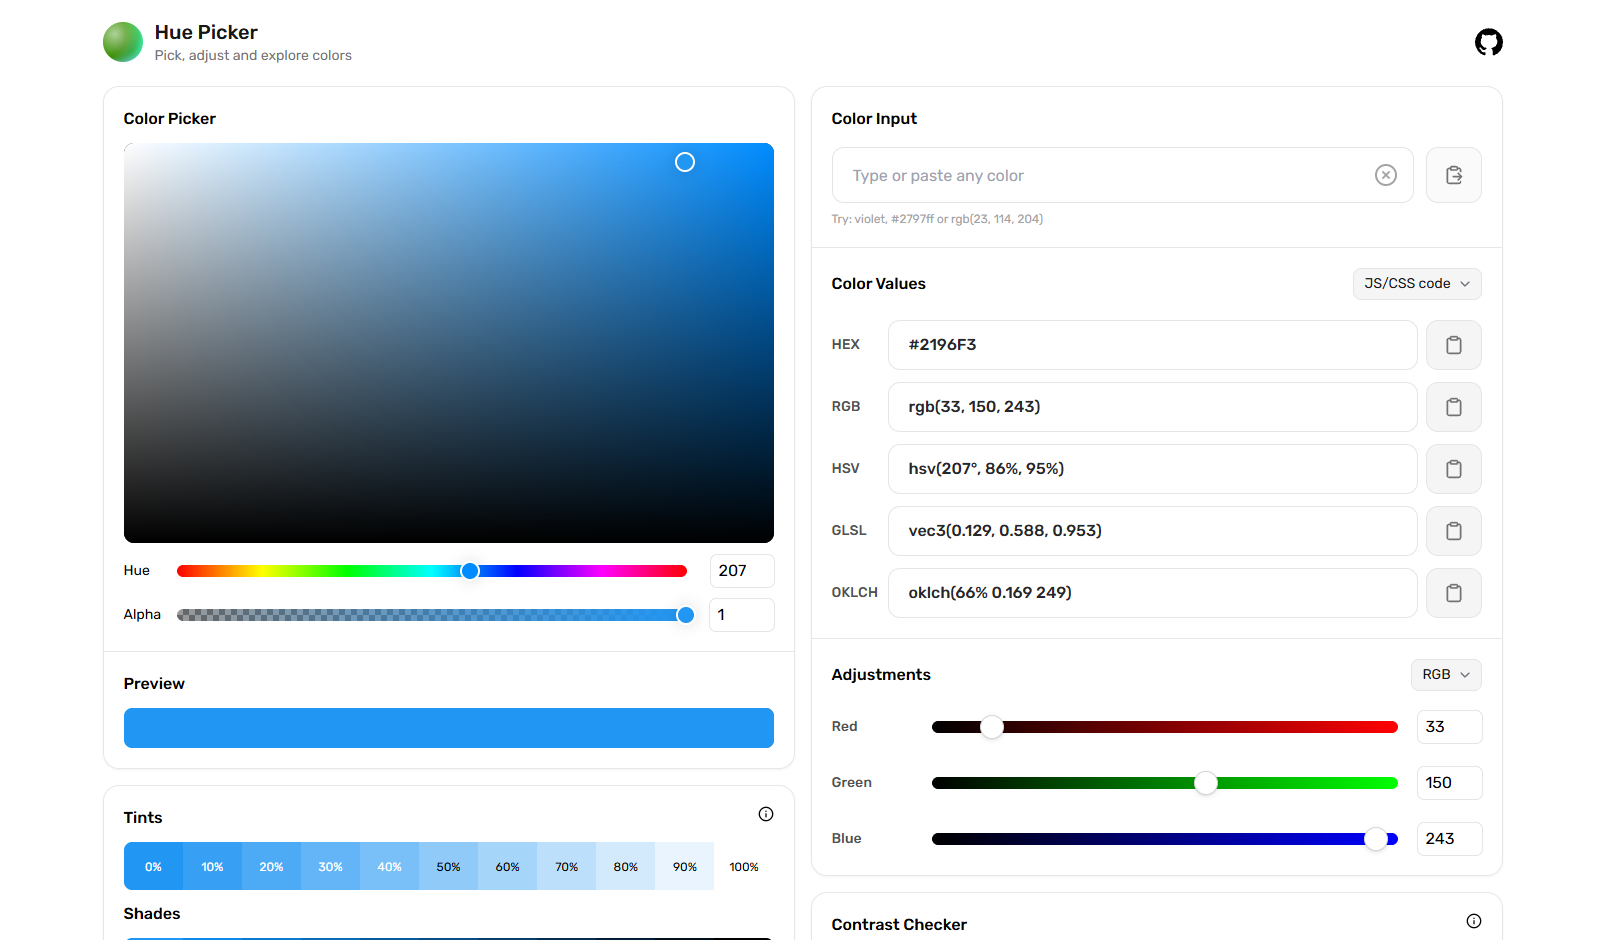
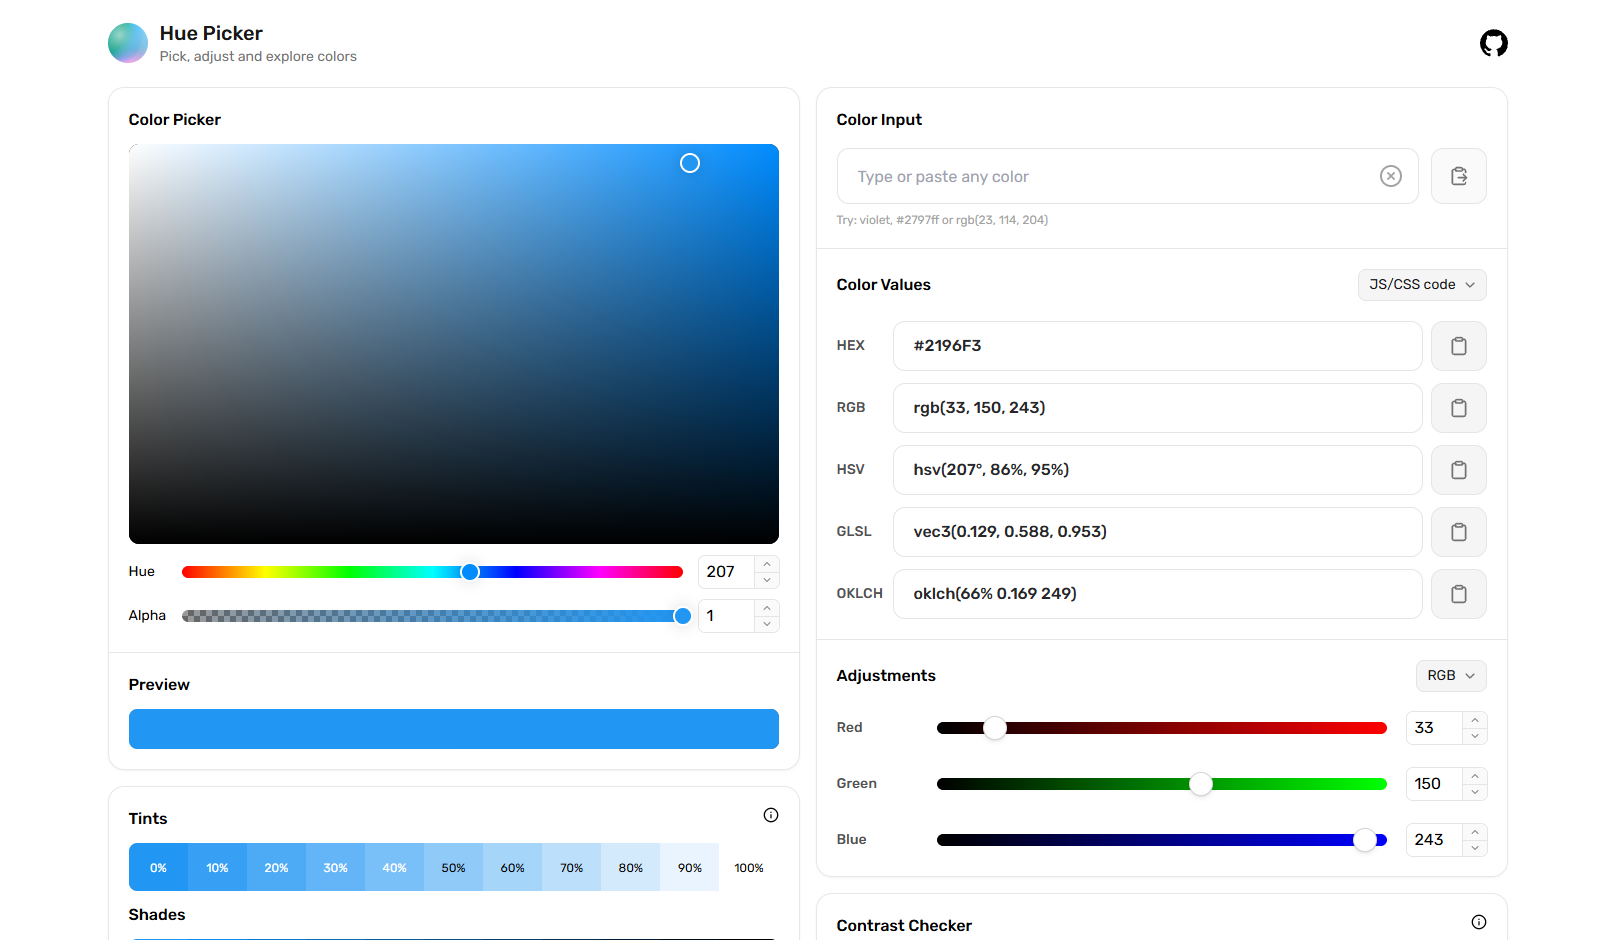
number input field added

diff --git a/src/components/utils/NumberInput.tsx b/src/components/utils/NumberInput.tsx
@@ -1,0 +1,65 @@
+import { NumberField } from "@base-ui/react/number-field";
+
+export function NumberInput({
+  min,
+  max,
+  step,
+  value,
+  onChange,
+}: {
+  min: number;
+  max: number;
+  step: number;
+  value: string;
+  onChange: (value: string) => void;
+}) {
+  return (
+    <NumberField.Root
+      value={Number(value)}
+      onValueChange={(value) => onChange(value?.toString() as string)}
+      min={min}
+      max={max}
+      step={step}
+    >
+      <NumberField.Group className="flex w-20 ring-1 ring-neutral-200 rounded-md overflow-hidden focus-within:ring-2 focus-within:ring-neutral-900 bg-white">
+        <NumberField.Input
+          onClick={(e) => e.currentTarget.select()}
+          className="w-full px-2 py-1 outline-none min-w-0"
+        />
+
+        {/* The Right-Side Controls Container */}
+        <div className="flex flex-col border-l border-neutral-200 bg-neutral-50 shrink-0">
+          <NumberField.Increment className="flex-1 flex items-center justify-center px-1.5 hover:bg-neutral-200 border-b border-neutral-200 cursor-default text-neutral-600">
+            <svg
+              width="12"
+              height="12"
+              viewBox="0 0 24 24"
+              fill="none"
+              stroke="currentColor"
+              strokeWidth="2"
+              strokeLinecap="round"
+              strokeLinejoin="round"
+            >
+              <path d="m18 15-6-6-6 6" />
+            </svg>
+          </NumberField.Increment>
+
+          <NumberField.Decrement className="flex-1 flex items-center justify-center px-1.5 hover:bg-neutral-200 cursor-default text-neutral-600">
+            <svg
+              width="12"
+              height="12"
+              viewBox="0 0 24 24"
+              fill="none"
+              stroke="currentColor"
+              strokeWidth="2"
+              strokeLinecap="round"
+              strokeLinejoin="round"
+            >
+              <path d="m6 9 6 6 6-6" />
+            </svg>
+          </NumberField.Decrement>
+        </div>
+      </NumberField.Group>
+    </NumberField.Root>
+  );
+}

diff --git a/src/components/layout/ColorPickerCard.tsx b/src/components/layout/ColorPickerCard.tsx
@@ -1,9 +1,10 @@
-import React, { useContext } from "react";
-import { ColorPicker, Hue, Alpha } from "react-color-palette";
+import { useContext } from "react";
+import { Alpha, ColorPicker, Hue } from "react-color-palette";
 import "react-color-palette/css";
 import { HUE_MAX, MIN, PCT_MAX } from "../../utils/const";
 import { ColorContext } from "../lib/ColorContext";
 import { ColorUtils } from "../lib/ColorUtils";
+import { NumberInput } from "../utils/NumberInput";
 
 export default function ColorPickerCard() {
   const { color, setColor } = useContext(ColorContext);
@@ -56,15 +57,12 @@ export default function ColorPickerCard() {
               setColor(ColorUtils.convert("hsv", color.hsv));
             }}
           />
-          <input
-            type="number"
+          <NumberInput
             min={MIN}
             max={HUE_MAX}
             step={1}
             value={Math.round(color.hsv.h).toFixed(0)}
-            onChange={(e) => handleInputChange("h", e.target.value)}
-            onClick={(e: any) => e.target.select()}
-            className="w-16 ml-2 ring-1 ring-neutral-200 rounded-md px-2 py-1 select-all"
+            onChange={(e: string) => handleInputChange("h", e)}
           />
         </div>
 
@@ -76,15 +74,13 @@ export default function ColorPickerCard() {
               setColor(ColorUtils.convert("hsv", color.hsv));
             }}
           />
-          <input
-            type="number"
+
+          <NumberInput
             min={MIN}
             max={1}
             step={0.001}
             value={`${color.hsv.a === 0 || color.hsv.a === 1 ? color.hsv.a : color.hsv.a.toFixed(2)}`}
-            onChange={(e) => handleInputChange("a", e.target.value)}
-            onClick={(e: any) => e.target.select()}
-            className="w-16 ml-2 ring-1 ring-neutral-200 rounded-md px-2 py-1 select-all"
+            onChange={(e: string) => handleInputChange("a", e)}
           />
         </div>
       </div>

diff --git a/src/components/controls/Controls.tsx b/src/components/controls/Controls.tsx
@@ -1,5 +1,6 @@
 import { Slider } from "../../ui/slider";
 import { MIN } from "../../utils/const";
+import { NumberInput } from "../utils/NumberInput";
 
 export default function Controls({
   max,
@@ -37,15 +38,12 @@ export default function Controls({
         />
       </div>
 
-      <input
-        type="number"
+      <NumberInput
         min={MIN}
         max={max}
         step={step}
         value={value}
-        onChange={(e) => handleInputChange(e.target.value)}
-        onClick={(e: any) => e.target.select()}
-        className="w-16 ring-1 ring-neutral-200 rounded-md px-2 py-1 select-all"
+        onChange={(value) => handleInputChange(value)}
       />
     </div>
   );
